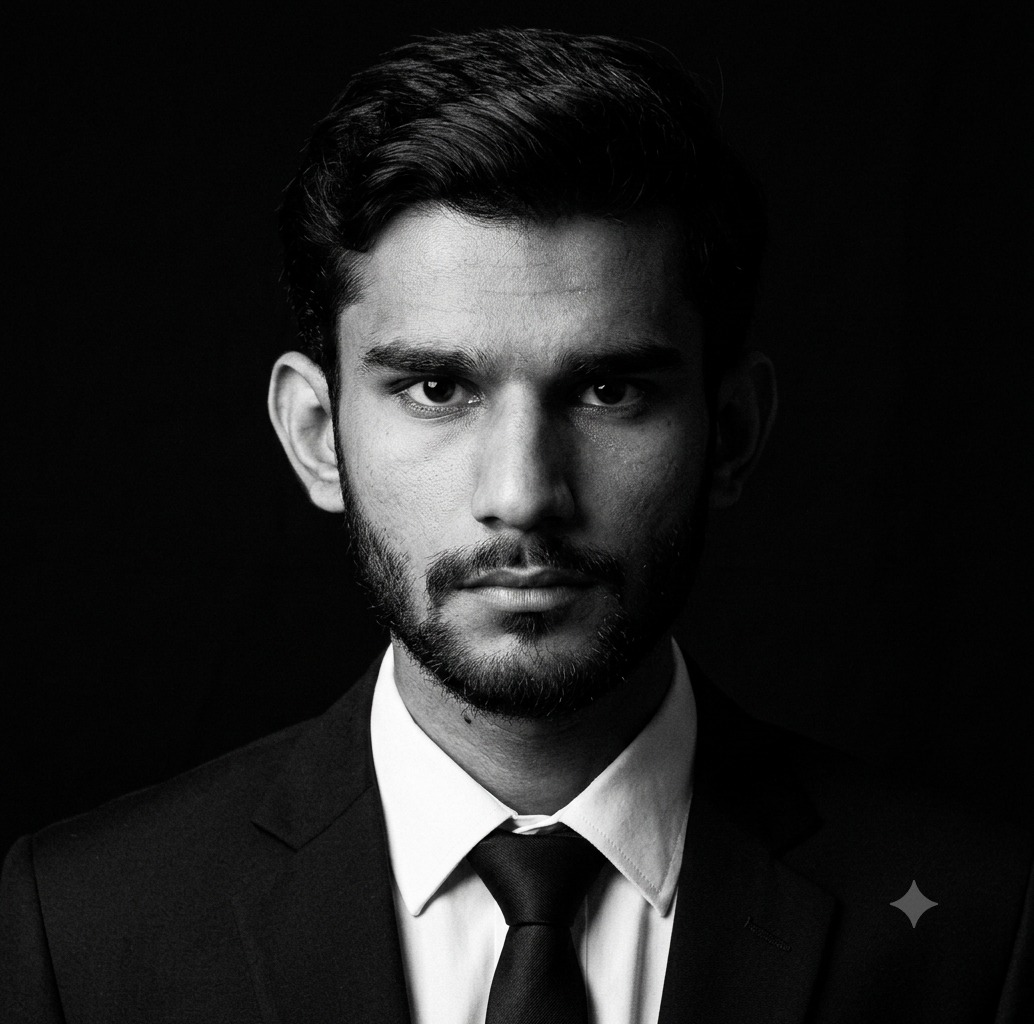
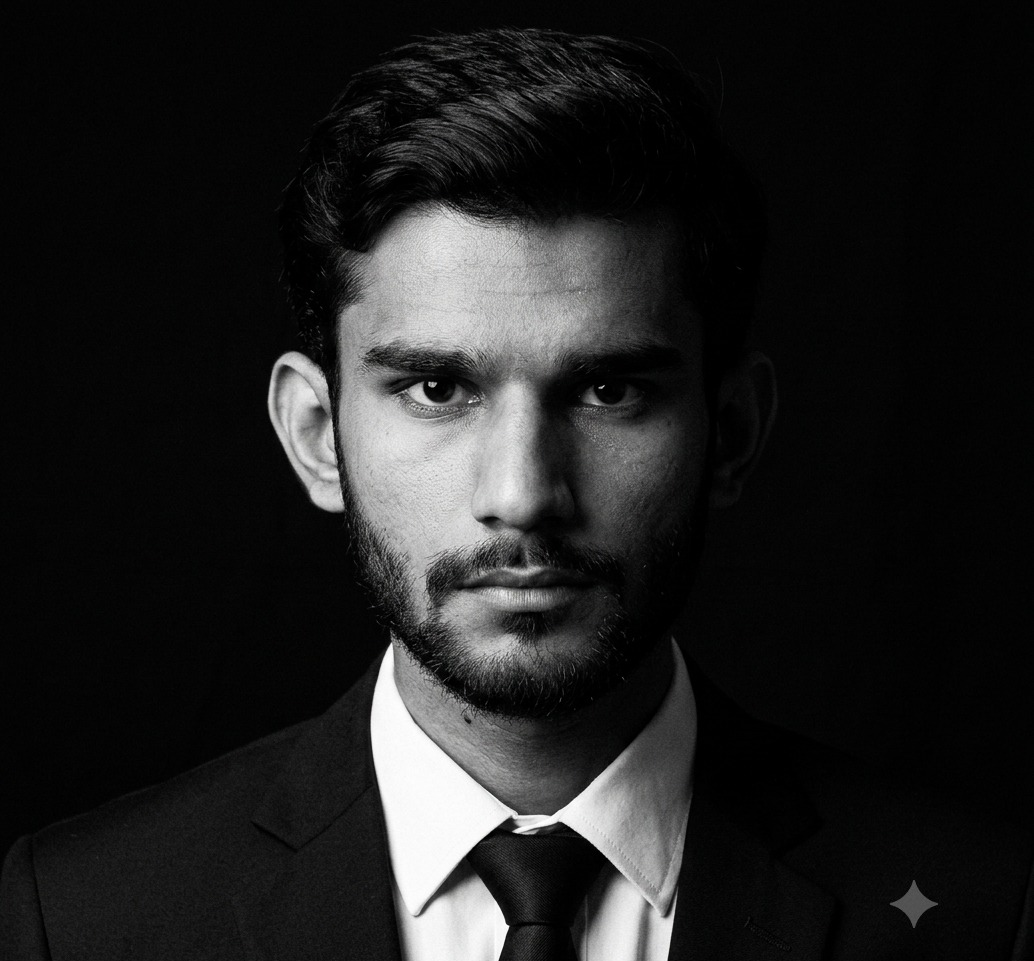
Small changes

Changed region(s): [[0.2476, 0.0312, 0.6809, 1.0], [0.8665, 0.8429, 0.8975, 0.9677], [0.2785, 0.718, 0.3095, 0.7492]]

diff --git a/frontend/customer-window/script.js b/frontend/customer-window/script.js
@@ -1402,7 +1402,11 @@
         <div class="qr-box" title="QR placeholder">▦▦▦</div>
         ${b.status === "pending" ? `<button class="btn btn-success btn-sm" data-paynow="${b.orderId}">Pay Now</button>` : ""}
         <button class="btn btn-outline btn-sm" data-download="${b.id}">Download ticket</button>
-        ${b.status !== "cancelled" && b.when === "upcoming" ? `<button class="btn btn-danger-outline btn-sm" data-cancel="${b.id}">Cancel booking</button>` : ""}
+        ${b.status !== "cancelled" && b.when === "upcoming"
+        ? `<span class="ticket-expiry-msg" data-booking="${b.id}">
+      ⏳ This ticket will expire shortly if payment is not completed.
+   </span>`
+        : ""} 
       </div>
     </div>`;
   }

diff --git a/frontend/Homepage/index.html b/frontend/Homepage/index.html
@@ -5,7 +5,7 @@
   <meta charset="UTF-8" />
   <meta name="viewport" content="width=device-width, initial-scale=1.0, viewport-fit=cover" />
   <title>Tixora — Web-Native Event Ticketing</title>
-  <link rel="icon" href="assets/logo.jpg" />
+  <link rel="icon" href="assets/logo.png" />
   <meta name="description"
     content="Tixora is a 100% web-native event discovery, digital ticketing, and organizer management platform. No app downloads. No installs. Just the browser." />
   <meta name="theme-color" content="#001F54" />
